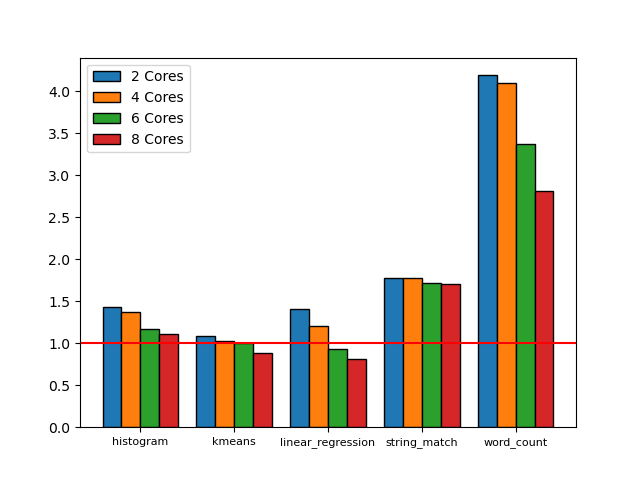
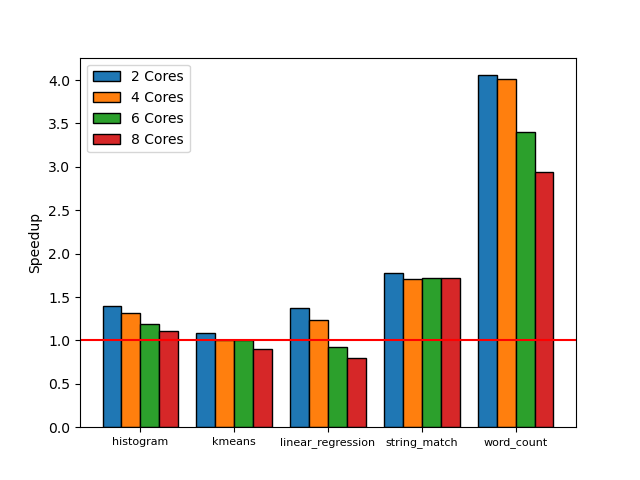
update tasck D

diff --git a/task3/multicore/test_exp_size.py b/task3/multicore/test_exp_size.py
@@ -1,0 +1,80 @@
+# test script for parsec
+
+import os
+import re
+from datetime import datetime, timedelta
+from pytimeparse.timeparse import timeparse
+import subprocess
+import numpy as np
+import pandas as pd
+import matplotlib.pyplot as plt
+
+FW_HOME = "/home/teamf/wenli_temp/parsec-3.0"
+#DATA_HOME = "/home/teamf/wenli_temp/"
+
+my_env = os.environ.copy()
+
+def run_workload(threads, app, data_size):
+#def run_workload():
+#    print(my_env["PATH"])
+    cmd = f"parsecmgmt -a run -c gcc -p parsec.{app} -i {data_size} -n {threads}"
+    process = subprocess.Popen(cmd.split(), env=my_env,
+                         stdout=subprocess.PIPE, 
+                         stderr=subprocess.PIPE)
+    stdout, stderr = process.communicate()
+
+#    print(stdout)
+    pattern = "real\t.+\nuser\t.+\nsys\t.+\n"
+    times = re.search(pattern, stdout.decode('ascii')).group(0).split()
+    total_time = timeparse(times[-1])+timeparse(times[-3])+timeparse(times[-5])
+    print("time", total_time)
+    return total_time
+
+"""
+"""
+def init():
+    workload_map["blackscholes"] = ""
+    workload_map["bodytrack"] = ""
+    workload_map["dedup"] = ""
+    workload_map["fluidanimate"] = ""
+    workload_map["freqmine"] = ""
+
+workload_map = {}
+threads = 4
+init()
+
+size_range = ["simsmall", "simmedium", "simlarge"]
+df = pd.DataFrame(columns=size_range, index=workload_map.keys())
+
+for k, _ in workload_map.items():
+    print("="*20, k, "="*20)
+    for i in size_range:
+        print("data size", i)
+
+        baseline = run_workload(1, k, i)
+        print("baseline", baseline)
+
+        speed_up = baseline / run_workload(threads, k, i)
+        print("speed up", speed_up)
+        df.loc[k, i] = speed_up
+
+print(df)
+
+app_num = len(workload_map)
+x = np.arange(app_num)
+total_width, n = 0.8, len(size_range)
+width = total_width / n
+x = x - (total_width - width) / 2
+
+for i in range(len(size_range)):
+    size = size_range[i]
+    data = df[size]
+    plt.bar(x + i*width, data,  width=width, label=f"{size}", ec='black')
+
+plt.xticks(np.arange(app_num), labels=workload_map.keys(), fontsize=8)
+plt.legend()
+plt.axhline(y=1, color='r', linestyle='-')
+plt.ylabel("Speedup")
+plt.savefig(f"multicore/results/parsec_size.png")
+
+exit(0)

diff --git a/task3/multicore/test_exp_cores.py b/task3/multicore/test_exp_cores.py
@@ -1,0 +1,76 @@
+# test script for parsec
+
+import os
+import re
+from datetime import datetime, timedelta
+from pytimeparse.timeparse import timeparse
+import subprocess
+import numpy as np
+import pandas as pd
+import matplotlib.pyplot as plt
+
+FW_HOME = "/home/teamf/wenli_temp/parsec-3.0"
+#DATA_HOME = "/home/teamf/wenli_temp/"
+
+my_env = os.environ.copy()
+
+def run_workload(threads, app):
+#def run_workload():
+#    print(my_env["PATH"])
+    cmd = f"parsecmgmt -a run -c gcc -p parsec.{app} -i simlarge -n {threads}"
+    process = subprocess.Popen(cmd.split(), env=my_env,
+                         stdout=subprocess.PIPE, 
+                         stderr=subprocess.PIPE)
+    stdout, stderr = process.communicate()
+
+#    print(stdout)
+    pattern = "real\t.+\nuser\t.+\nsys\t.+\n"
+    times = re.search(pattern, stdout.decode('ascii')).group(0).split()
+    total_time = timeparse(times[-1])+timeparse(times[-3])+timeparse(times[-5])
+    print("time", total_time)
+    return total_time
+
+"""
+"""
+def init():
+    workload_map["blackscholes"] = ""
+    workload_map["bodytrack"] = ""
+    workload_map["dedup"] = ""
+    workload_map["fluidanimate"] = ""
+    workload_map["freqmine"] = ""
+
+workload_map = {}
+init()
+
+threads_range = list(2**p for p in range(1, 5))
+df = pd.DataFrame(columns=threads_range, index=workload_map.keys())
+
+for k, _ in workload_map.items():
+    print("="*20, k, "="*20)
+    baseline = run_workload(1, k)
+    print("baseline", baseline)
+    for i in threads_range:
+        print("threads", i)
+        speed_up = baseline / run_workload(i, k)
+        print("speed up", speed_up)
+        df.loc[k, i] = speed_up
+
+print(df)
+
+app_num = len(workload_map)
+x = np.arange(app_num)
+total_width, n = 0.8, len(threads_range)
+width = total_width / n
+x = x - (total_width - width) / 2
+
+for i in range(len(threads_range)):
+    threads = threads_range[i]
+    data = df[threads]
+    plt.bar(x + i*width, data,  width=width, label=f"{threads} Threads", ec='black')
+
+plt.xticks(np.arange(app_num), labels=workload_map.keys(), fontsize=8)
+plt.legend()
+plt.axhline(y=1, color='r', linestyle='-')
+plt.ylabel("Speedup")
+plt.savefig(f"multicore/results/parsec_threads.png")
+

diff --git a/task3/multicore/test_basic_cores.py b/task3/multicore/test_basic_cores.py
@@ -82,6 +82,7 @@ for i in range(len(cores_range)):
 plt.xticks(np.arange(app_num), labels=workload_map.keys(), fontsize=8)
 plt.legend()
 plt.axhline(y=1, color='r', linestyle='-')
-plt.savefig(f"results/phoenix_cores.png")
+plt.ylabel("Speedup")
+plt.savefig(f"multicore/results/phoenix_cores.png")
 exit(0)
 

diff --git a/task3/multicore/test_basic_size.py b/task3/multicore/test_basic_size.py
@@ -102,6 +102,7 @@ for i in range(len(params)):
 plt.xticks(np.arange(app_num), labels=workload_map.keys(), fontsize=8)
 plt.legend()
 plt.axhline(y=1, color='r', linestyle='-')
-plt.savefig(f"results/phoenix_size.png")
+plt.ylabel("Speedup")
+plt.savefig(f"multicore/results/phoenix_size.png")
 exit(0)
 
